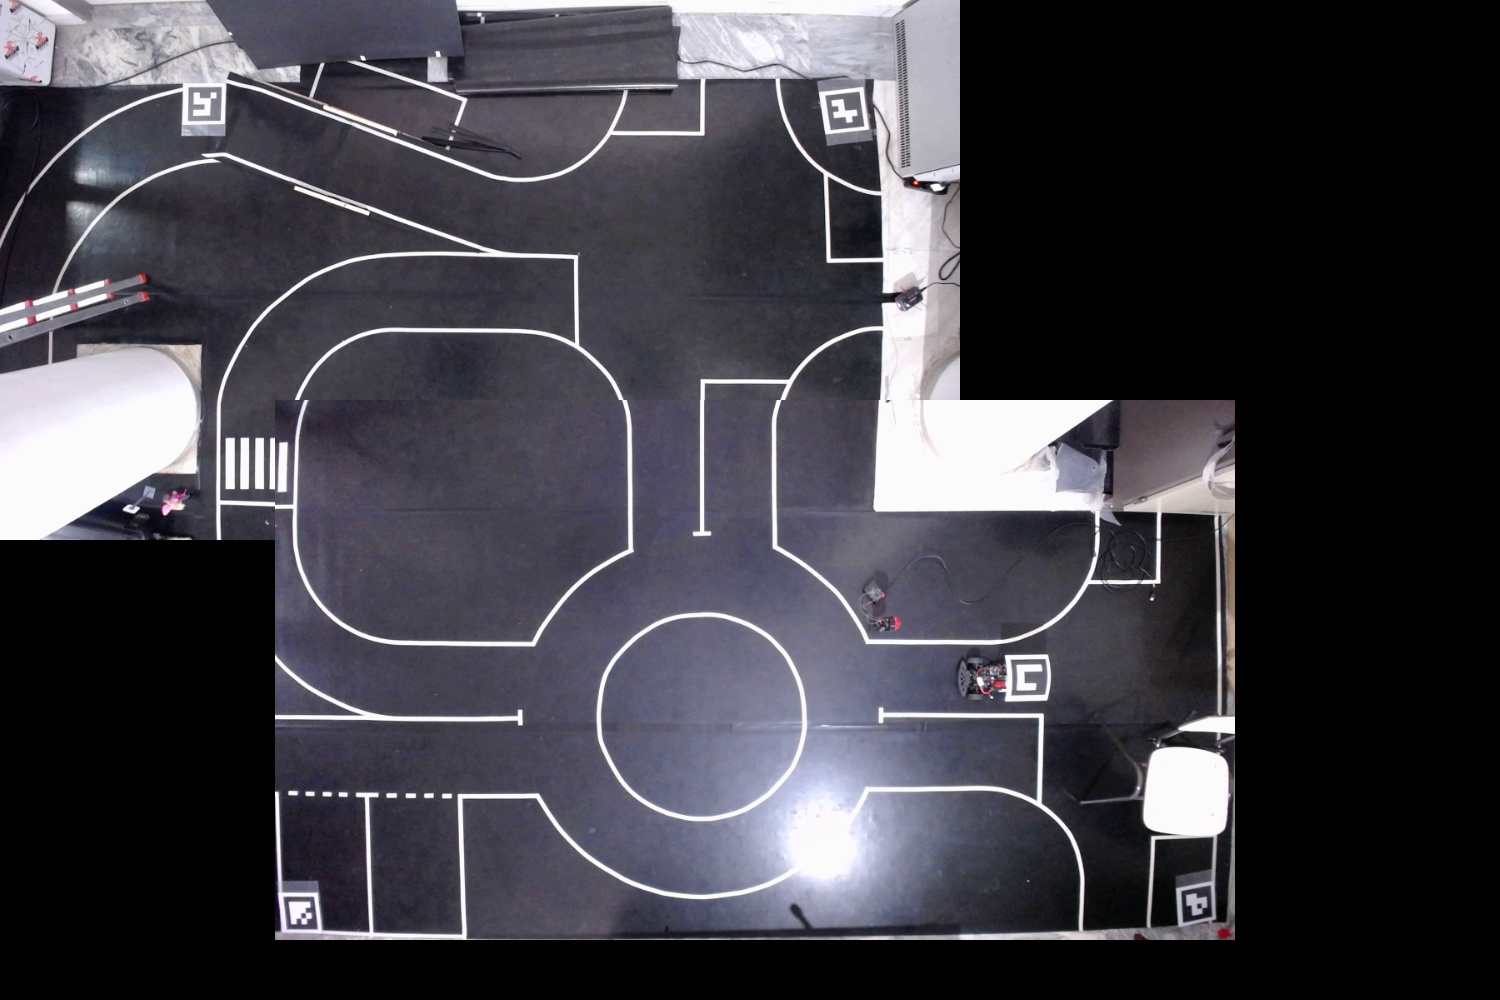
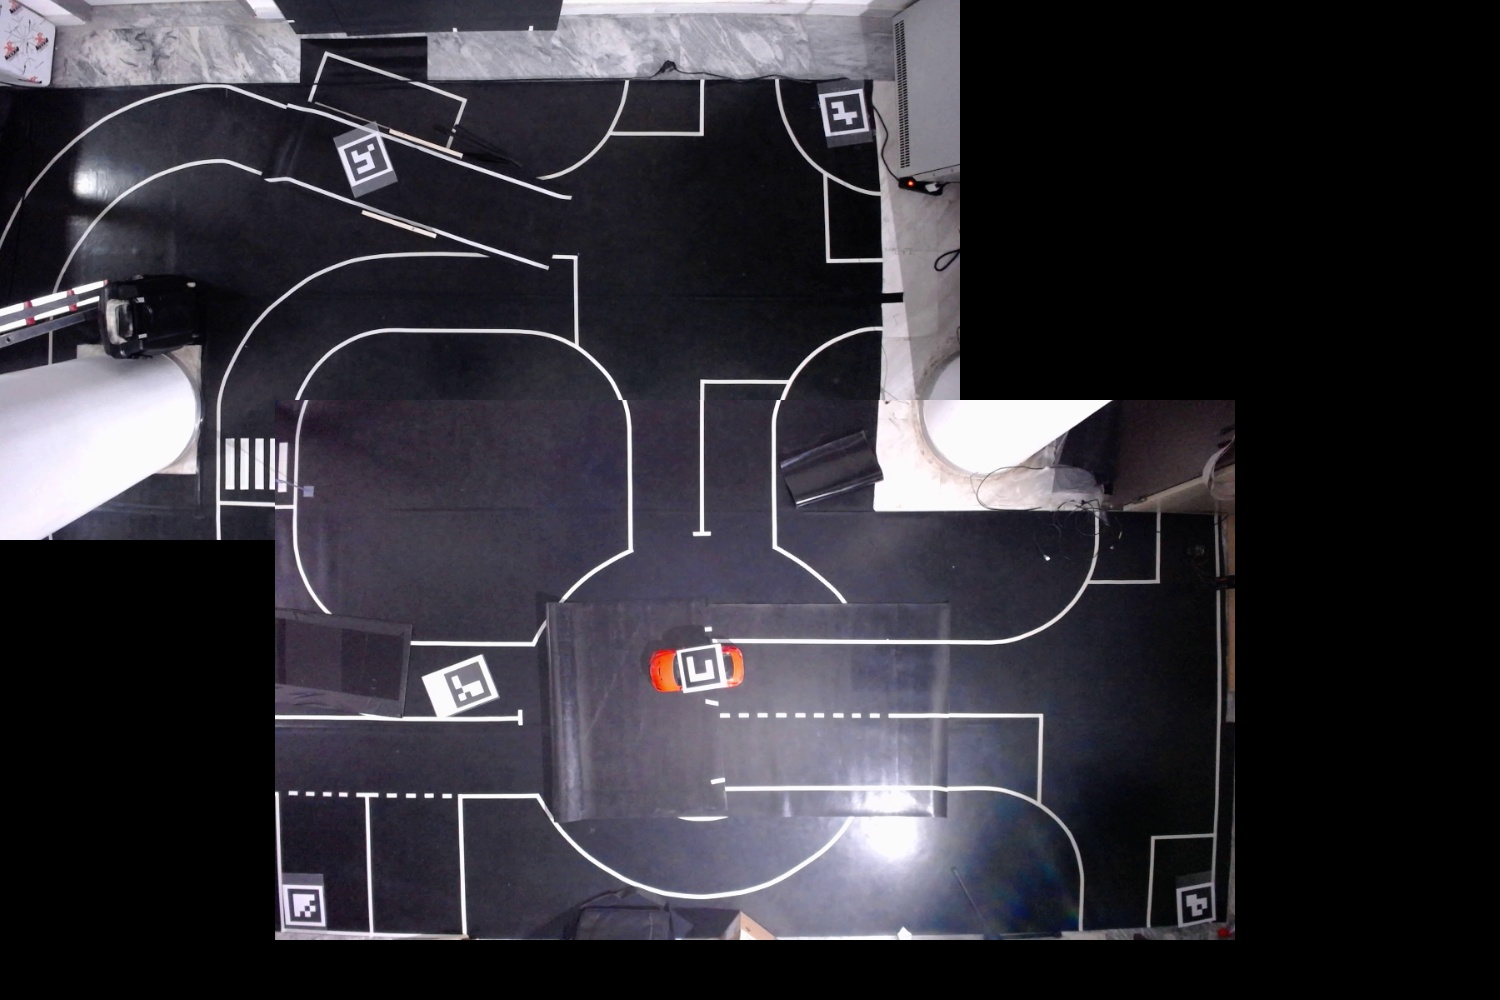
Updated files and working obstacle handler

diff --git a/Server/GPS_RPI.py b/Server/GPS_RPI.py
@@ -90,9 +90,12 @@ class GPS:
 
         correct_detection = False
         (corners, ids, _) = cv2.aruco.detectMarkers(frame, self.arucoDict, parameters=self.arucoParams)
-        #print("IDs: ", ids)
+        
+        # print("IDs: ", ids)
         cX = 0
         cY = 0
+        oX = 0
+        oY = 0
 
         if len(corners) > 0:
             # flatten the ArUco IDs list
@@ -101,7 +104,7 @@ class GPS:
 
             # loop over the detected ArUCo corners
             for (markerCorner, markerID) in zip(corners, ids):
-                if flag == 0 and markerID != 10:
+                if flag == 0 and markerID != 10 and markerID != 2:
                     counter += 1
                     # marker corners are always returned in top-left, top-right, bottom-right and bottom-left order
                     corners = markerCorner.reshape((4, 2))
@@ -125,11 +128,7 @@ class GPS:
                 
                 elif flag == 1:
 
-                    points = np.zeros(shape=(5,3))
-                    cX = 0
-                    cY = 0
-                    oX = 0
-                    oY = 0 
+#                     points = np.zeros(shape=(5,3))
                     
                     if markerID == 10:
                         counter = 0
@@ -139,7 +138,7 @@ class GPS:
                         points[counter] = (cX, cY, markerID)
                 
 
-                    elif markerID == 2:
+                    if markerID == 2:
                         counter = 1
 
                         corners = markerCorner.reshape((4, 2))

diff --git a/Server/position_listener.py b/Server/position_listener.py
@@ -54,6 +54,7 @@ class PositionListener(Thread):
 		countFrames = 0
 		while self.__running:
             
+			start = time.time()
 			countFrames += 1
 			_, frame0 = self.cap0.read()
 			_, frame2 = self.cap2.read()
@@ -62,6 +63,7 @@ class PositionListener(Thread):
 
 			self.i, self.j, self.iX, self.jX = self.GPS.tracking_procedure(merged_frame, countFrames)
 			self.coor = (self.i,self.j,self.iX,self.jX)
+			print("Time for GPS: ", time.time() - start)
 
 			# Wait for 0.1 s before next adv
 # 			print(20*"=")
